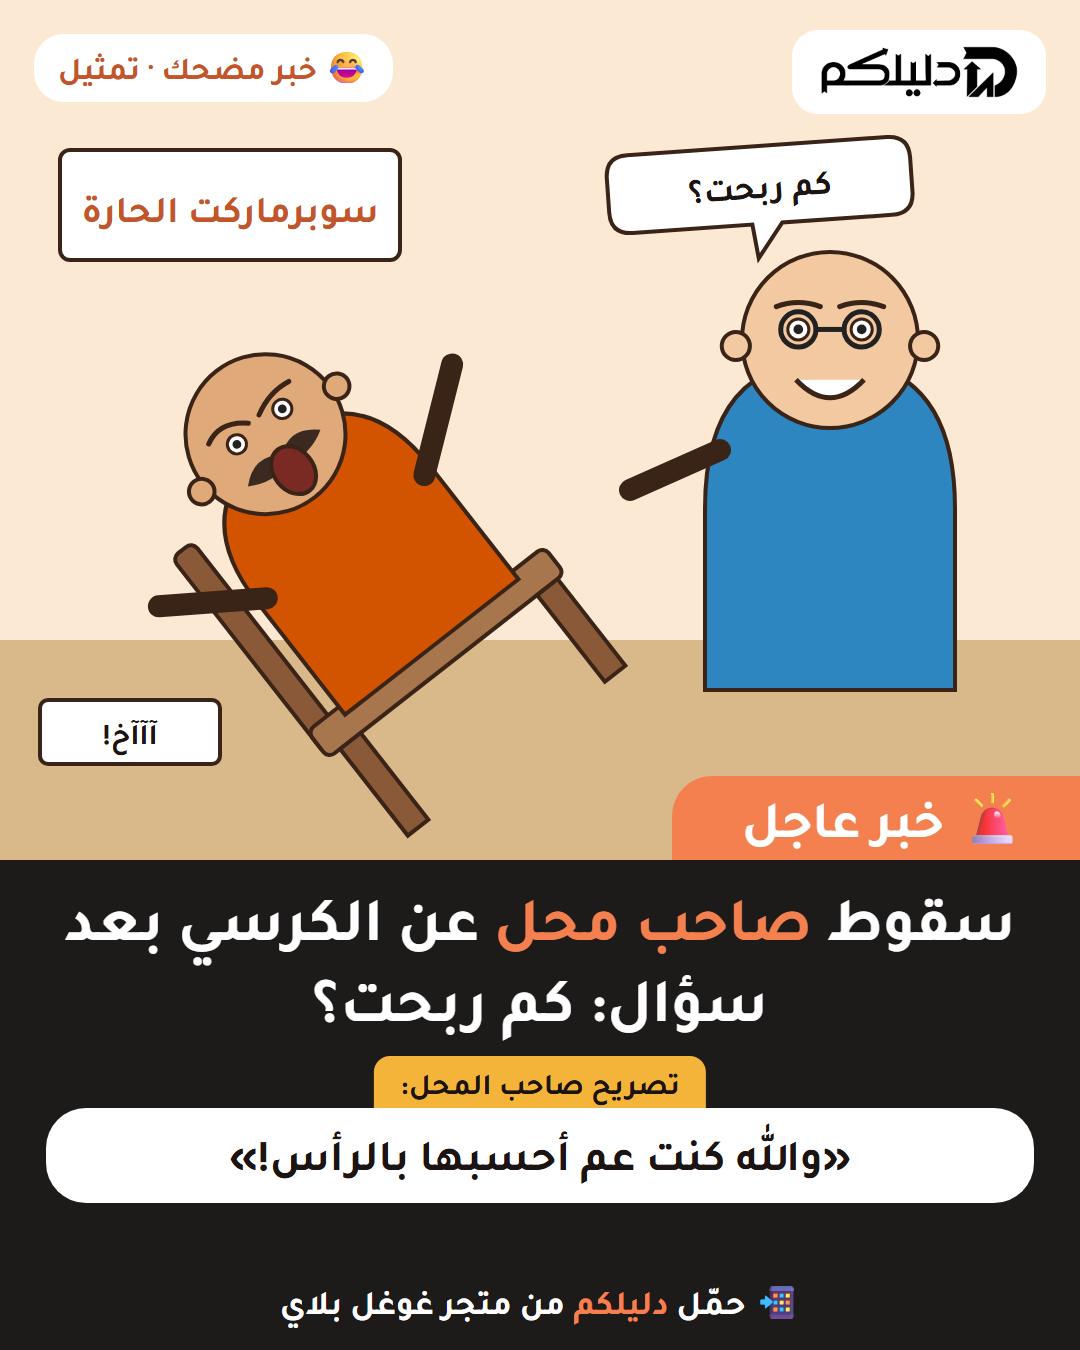
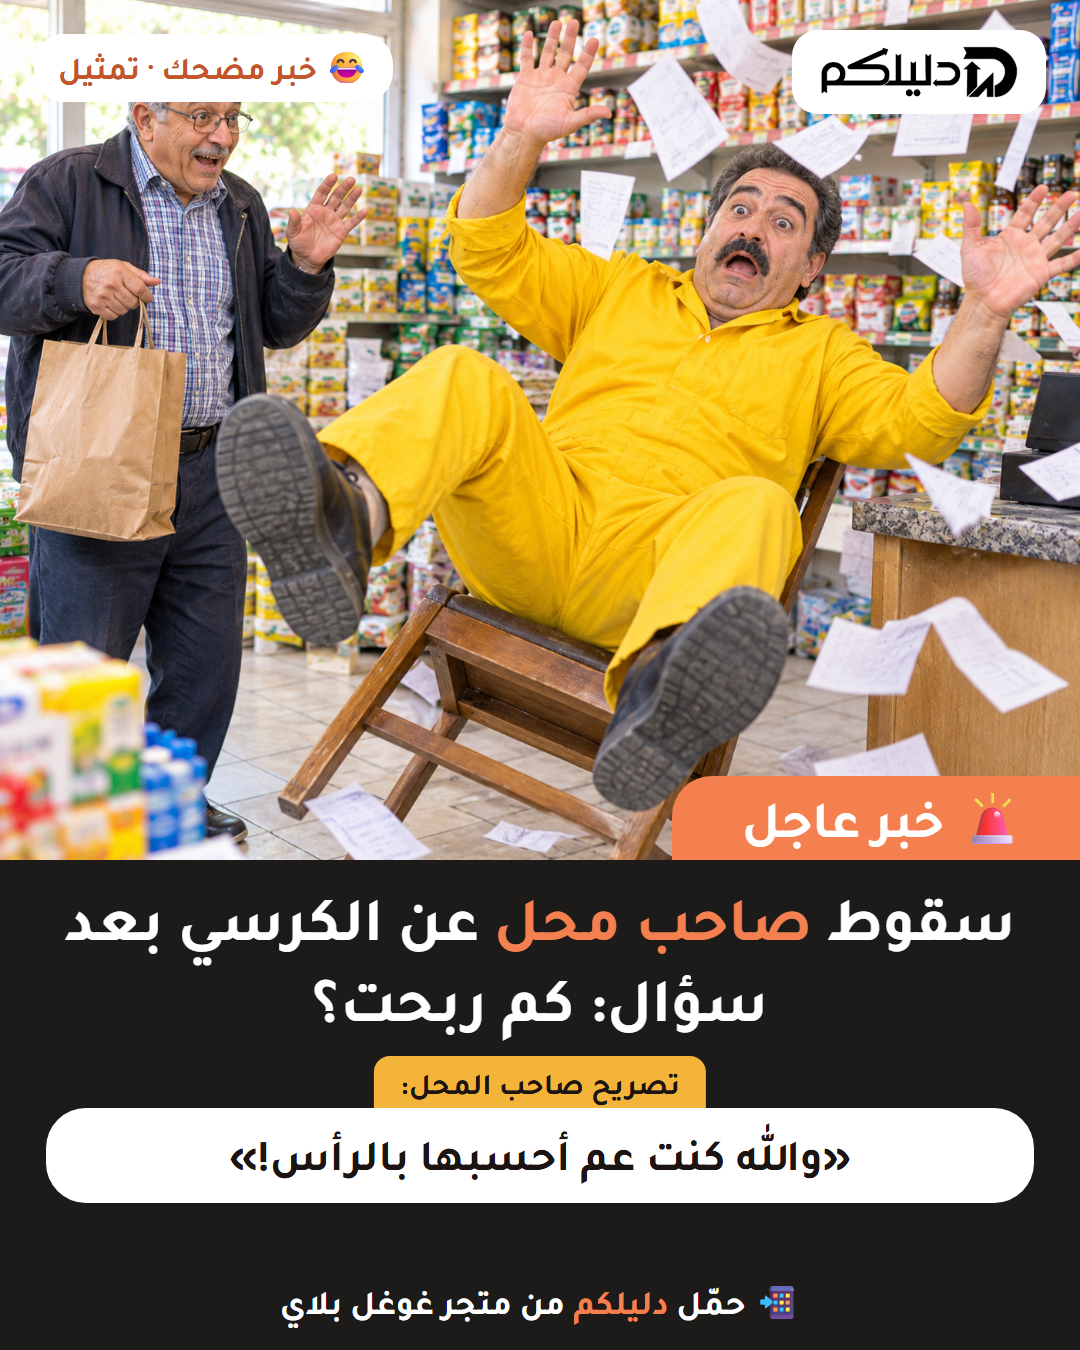
Marketing: week 1 comic pictures with real photos (made in ChatGPT), the photo-ready template and the image prompts

diff --git a/marketing/weeks/week-1-image-prompts.md b/marketing/weeks/week-1-image-prompts.md
@@ -1,0 +1,29 @@
+# أوصاف الصور الحقيقية: الأسبوع ١ (المحاسبة)
+
+> هالأوصاف بتنحط بأداة صور بالذكاء الاصطناعي (متل اللي انعملت فيها صورة أبو رامي).
+> الصور اللي بتطلع بتنحفظ بمجلد `brand-kit/social/weekly/photos/` بهالأسماء بالضبط: `w1-sack.jpg` و`w1-net.jpg` و`w1-chair.jpg`.
+> بعدين بيشتغل `node brand-kit/renderFunny.cjs` وبيركّب الشريط والعنوان والتصريح والشعار فوق الصورة.
+
+## قواعد لكل الصور
+
+- شخصيات ومحلات مخترعة بالكامل. ما بنطلب وجه شخص حقيقي ولا اسم محل أو شعار حقيقي.
+- بدون أي كتابة على الصورة (الأداة بتخربط الحروف). الكتابة بتنضاف بعدين.
+- القياس: أفقي قليلاً بنسبة 5:4 (أو مربع، وبينقص من الأطراف). الوجوه والشي المهم بالنص وبالثلثين العلويين، لأنو أسفل الصورة بيتغطى بالشريط.
+
+## w1-sack: القبض على صاحب محل بتهمة إخفاء المصاريف
+
+```
+Photorealistic photo, bright natural light, inside a small neighborhood grocery shop. A cheerful middle-aged shop owner with a mustache wears a bright yellow prison jumpsuit and plastic handcuffs, smiling awkwardly. Two playful security guards in dark uniforms and sunglasses stand on both sides holding his arms. Around them: huge piles of paper receipts and invoices on the counter and overflowing from boxes. A few amused customers in the background. No text, no logos, no brand names. Fictional people.
+```
+
+## w1-net: اختفاء الصافي بظروف غامضة
+
+```
+Photorealistic photo, bright natural light, inside a small neighborhood shop. A worried shop owner with a mustache wears a detective hat and holds a large magnifying glass, bending over an open empty cash drawer and looking inside it. Beside him an employee shrugs with open palms, with a funny innocent expression. A few scattered coins on the counter. No text, no logos, no brand names. Fictional people.
+```
+
+## w1-chair: سقوط صاحب محل عن الكرسي بعد سؤال: كم ربحت؟
+
+```
+Photorealistic photo, bright natural light, inside a small neighborhood shop. A shop owner with a mustache is falling backward off a wooden chair in a comic way, arms in the air, legs up, shocked expression, papers flying around him. A friendly customer with glasses stands nearby holding a shopping bag, smiling in surprise. No text, no logos, no brand names. Fictional people.
+```
